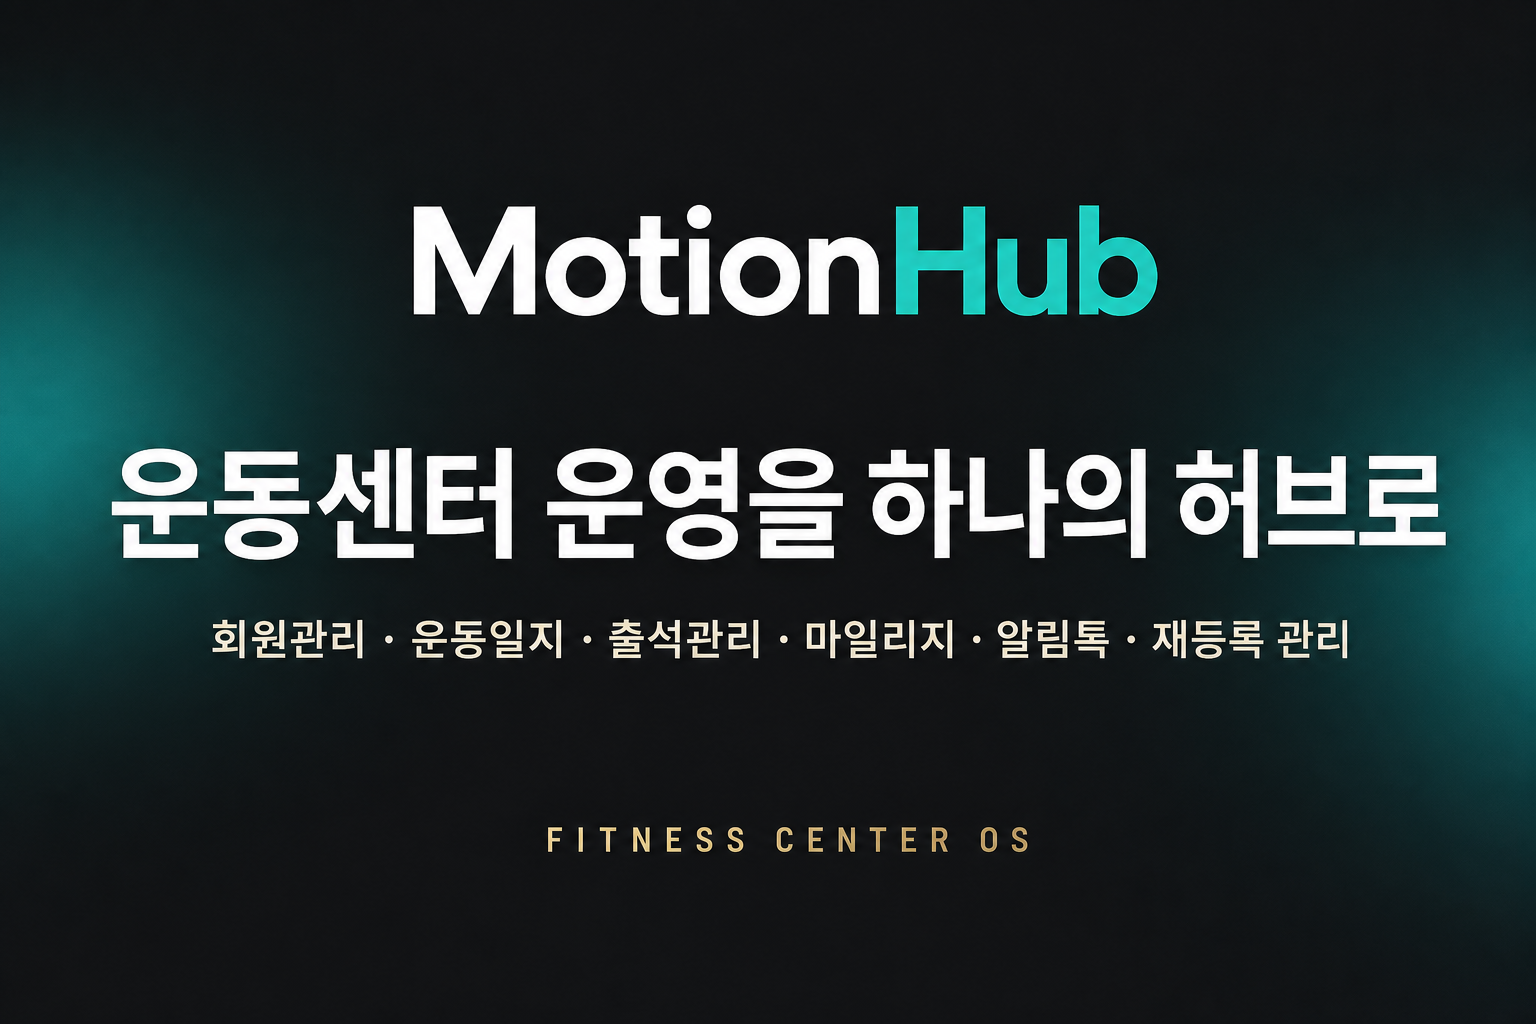
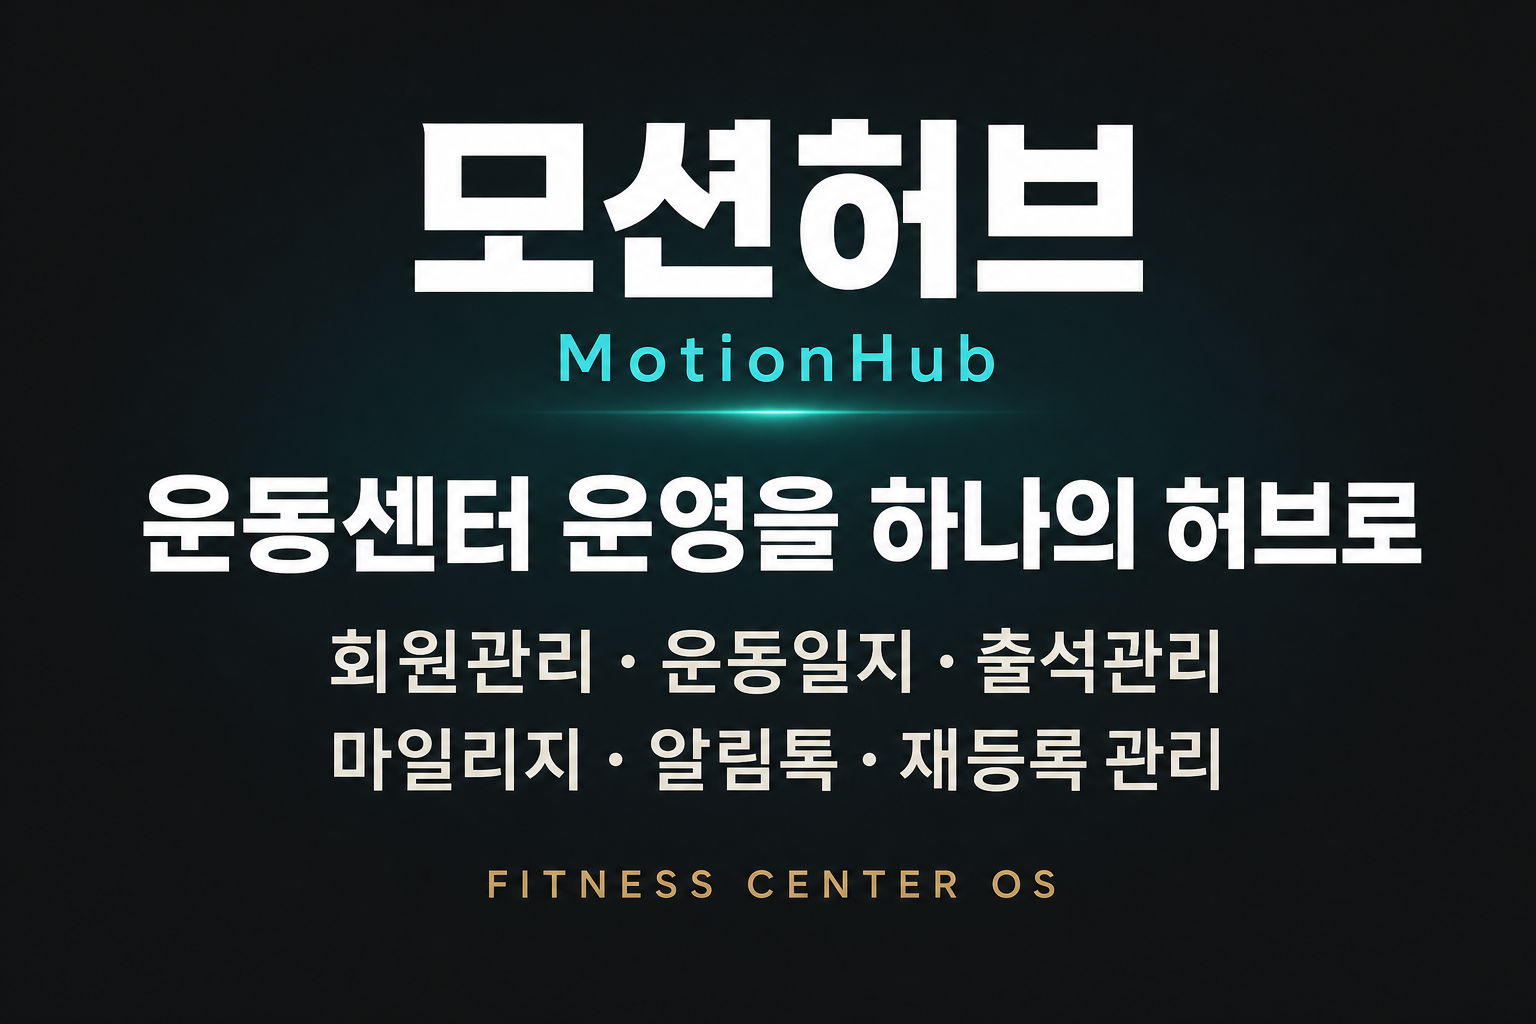
Fix motionhub.kr root to serve motionhub.html for OG crawlers.
Add Edge middleware so apex requests bypass index.html, unify Korean brand as 모션허브 in SEO meta, and regenerate the Korean OG image.

Changed region(s): [[0.0, 0.0938, 1.0, 0.8438], [0.3125, 0.8125, 0.6875, 0.875]]

diff --git a/motionhub.html b/motionhub.html
@@ -3,26 +3,26 @@
   <head>
     <meta charset="UTF-8" />
     <meta name="viewport" content="width=device-width, initial-scale=1.0" />
-    <title>MotionHub | 운동센터 운영 플랫폼</title>
+    <title>모션허브 | 운동센터 운영 플랫폼</title>
     <meta
       name="description"
       content="회원관리, 운동일지, 출석관리, 마일리지, 알림톡, 재등록 관리를 하나로 연결하는 운동센터 운영 플랫폼"
     />
     <meta
       name="keywords"
-      content="MotionHub, 모션허브, PT샵 관리, 필라테스 센터, 운동센터 운영, 회원관리, 재등록 관리, 출석관리, 운동일지, 마일리지, 알림톡"
+      content="모션허브, MotionHub, PT샵 관리, 필라테스 센터, 운동센터 운영, 회원관리, 재등록 관리, 출석관리, 운동일지, 마일리지, 알림톡"
     />
-    <meta name="author" content="MotionHub" />
-    <meta name="application-name" content="MotionHub" />
+    <meta name="author" content="모션허브" />
+    <meta name="application-name" content="모션허브" />
     <meta name="robots" content="index, follow, max-image-preview:large" />
     <meta name="googlebot" content="index, follow" />
     <meta name="theme-color" content="#1c1c1c" />
     <link rel="canonical" href="https://motionhub.kr/" />
 
     <!-- Open Graph (카카오·페이스북·네이버) -->
-    <meta property="og:site_name" content="MotionHub" />
+    <meta property="og:site_name" content="모션허브" />
     <meta property="og:locale" content="ko_KR" />
-    <meta property="og:title" content="MotionHub | 운동센터 운영 플랫폼" />
+    <meta property="og:title" content="모션허브 | 운동센터 운영 플랫폼" />
     <meta
       property="og:description"
       content="회원관리, 운동일지, 출석관리, 마일리지, 알림톡, 재등록 관리를 하나로 연결하는 운동센터 운영 플랫폼"
@@ -34,11 +34,11 @@
     <meta property="og:image:type" content="image/png" />
     <meta property="og:image:width" content="1200" />
     <meta property="og:image:height" content="630" />
-    <meta property="og:image:alt" content="MotionHub — 운동센터 운영을 하나의 허브로" />
+    <meta property="og:image:alt" content="모션허브 — 운동센터 운영을 하나의 허브로" />
 
     <!-- Twitter Card -->
     <meta name="twitter:card" content="summary_large_image" />
-    <meta name="twitter:title" content="MotionHub | 운동센터 운영 플랫폼" />
+    <meta name="twitter:title" content="모션허브 | 운동센터 운영 플랫폼" />
     <meta
       name="twitter:description"
       content="회원관리, 운동일지, 출석관리, 마일리지, 알림톡, 재등록 관리를 하나로 연결하는 운동센터 운영 플랫폼"
@@ -54,7 +54,8 @@
             "@type": "WebSite",
             "@id": "https://motionhub.kr/#website",
             "url": "https://motionhub.kr",
-            "name": "MotionHub",
+            "name": "모션허브",
+            "alternateName": "MotionHub",
             "description": "회원관리, 운동일지, 출석관리, 마일리지, 알림톡, 재등록 관리를 하나로 연결하는 운동센터 운영 플랫폼",
             "inLanguage": "ko-KR",
             "publisher": { "@id": "https://motionhub.kr/#organization" }
@@ -62,7 +63,8 @@
           {
             "@type": "Organization",
             "@id": "https://motionhub.kr/#organization",
-            "name": "MotionHub",
+            "name": "모션허브",
+            "alternateName": "MotionHub",
             "url": "https://motionhub.kr",
             "logo": {
               "@type": "ImageObject",
@@ -73,7 +75,8 @@
           },
           {
             "@type": "SoftwareApplication",
-            "name": "MotionHub",
+            "name": "모션허브",
+            "alternateName": "MotionHub",
             "applicationCategory": "BusinessApplication",
             "operatingSystem": "Web",
             "url": "https://motionhub.kr",

diff --git a/src/pages/MotionHubLandingPage.tsx b/src/pages/MotionHubLandingPage.tsx
@@ -113,11 +113,8 @@ function HeroSection() {
       />
       <div className="relative mx-auto max-w-6xl px-4 sm:px-6">
         <div className="max-w-3xl">
-          <p className="text-sm font-semibold tracking-[0.2em] text-teal-300 uppercase">
-            모션허브
-          </p>
-          <h1 className="mt-4 text-4xl font-bold tracking-tight text-cream sm:text-5xl lg:text-6xl">
-            Motion<span className="text-teal-300">Hub</span>
+          <h1 className="mt-0">
+            <MotionHubLogo tone="light" size="hero" />
           </h1>
           <p className="mt-6 text-xl font-semibold leading-snug text-cream sm:text-2xl">
             회원이 운동을 지속하게 만드는
@@ -161,7 +158,7 @@ function TrustSection() {
             현재 베타 운영 중
           </p>
           <p className="mt-5 text-lg font-semibold leading-relaxed text-charcoal sm:text-xl">
-            MotionHub는 실제 PT 센터에서 운영 중인 플랫폼입니다.
+            모션허브는 실제 PT 센터에서 운영 중인 플랫폼입니다.
           </p>
           <ul className="mt-6 flex flex-wrap gap-2">
             {MOTIONHUB_TRUST_FEATURES.map((feature) => (
@@ -217,7 +214,7 @@ function ProblemsSection() {
             여러 도구로 나누어 운영합니다.
           </p>
           <p className="font-medium text-charcoal">
-            MotionHub는 이 과정을 하나의 플랫폼으로 통합합니다.
+            모션허브는 이 과정을 하나의 플랫폼으로 통합합니다.
           </p>
         </div>
       </div>
@@ -234,7 +231,7 @@ function FeaturesSection() {
             Solution
           </p>
           <h2 className="mt-3 text-3xl font-bold tracking-tight text-charcoal sm:text-4xl">
-            MotionHub 기능 소개
+            모션허브 기능 소개
           </h2>
           <p className="mt-4 text-base leading-relaxed text-charcoal/60">
             회원 유지, 재등록 관리, 운영 효율을 돕는 기능을
@@ -275,7 +272,7 @@ function CaseStudySection() {
             MOVEL Performance Training
           </h3>
           <p className="mt-5 max-w-2xl text-base leading-relaxed text-cream/75">
-            MotionHub는 현재 MOVEL Performance Training에서 실제 운영 중입니다.
+            모션허브는 현재 MOVEL Performance Training에서 실제 운영 중입니다.
           </p>
           <p className="mt-4 max-w-2xl text-base leading-relaxed text-cream/65">
             회원관리부터 운동일지, 출석, 알림톡, 마일리지까지
@@ -367,7 +364,7 @@ function BetaSection() {
                 </li>
                 <li className="flex gap-2">
                   <span className="font-bold text-teal-700">✓</span>
-                  MotionHub 초기 파트너 혜택 제공
+                  모션허브 초기 파트너 혜택 제공
                 </li>
               </ul>
             </div>
@@ -538,10 +535,10 @@ function LandingFooter() {
         <MotionHubLogo tone="light" showTagline />
         <p className="mt-4 text-sm text-cream/55">운동센터 운영 플랫폼</p>
         <p className="mt-2 text-xs font-medium tracking-wide text-cream/40">
-          Powered by MotionHub
+          Powered by 모션허브
         </p>
         <p className="mt-8 text-xs text-cream/35">
-          © {new Date().getFullYear()} MotionHub. All rights reserved.
+          © {new Date().getFullYear()} 모션허브 (MotionHub). All rights reserved.
         </p>
       </div>
     </footer>

diff --git a/src/components/brand/MotionHubLogo.tsx b/src/components/brand/MotionHubLogo.tsx
@@ -2,23 +2,42 @@ type Props = {
   className?: string
   tone?: 'light' | 'dark'
   showTagline?: boolean
+  /** nav: 헤더·푸터, hero: 메인 타이틀 */
+  size?: 'nav' | 'hero'
+  /** false면 영문 (MotionHub) 병기 숨김 */
+  showEnglish?: boolean
 }
 
 export function MotionHubLogo({
   className = '',
   tone = 'light',
   showTagline = false,
+  size = 'nav',
+  showEnglish = true,
 }: Props) {
   const isLight = tone === 'light'
   const wordmark = isLight ? 'text-cream' : 'text-charcoal'
-  const hub = isLight ? 'text-teal-300' : 'text-teal-600'
+  const sub = isLight ? 'text-cream/55' : 'text-charcoal/50'
   const tagline = isLight ? 'text-cream/50' : 'text-charcoal/45'
+  const isHero = size === 'hero'
 
   return (
     <div className={`inline-flex flex-col items-start ${className}`}>
-      <span className={`text-xl font-bold tracking-tight sm:text-2xl ${wordmark}`}>
-        Motion<span className={hub}>Hub</span>
+      <span
+        className={`font-bold tracking-tight ${wordmark} ${
+          isHero ? 'text-4xl sm:text-5xl lg:text-6xl' : 'text-xl sm:text-2xl'
+        }`}
+      >
+        모션허브
+        {showEnglish && !isHero && (
+          <span className={`ml-1.5 text-sm font-semibold ${sub}`}>(MotionHub)</span>
+        )}
       </span>
+      {isHero && showEnglish && (
+        <span className={`mt-2 text-base font-medium sm:text-lg ${sub}`}>
+          MotionHub
+        </span>
+      )}
       {showTagline && (
         <span
           className={`mt-0.5 text-[10px] font-semibold tracking-[0.2em] uppercase ${tagline}`}

diff --git a/src/constants/motionhubSeo.ts b/src/constants/motionhubSeo.ts
@@ -1,16 +1,27 @@
-/** MotionHub 랜딩 SEO · Open Graph (정적 HTML·클라이언트 공통) */
+/** MotionHub 랜딩 SEO · Open Graph · 브랜드 노출명 (정적 HTML·클라이언트 공통) */
 
 export const MOTIONHUB_SITE_URL = 'https://motionhub.kr'
 
+/** 한국 시장 대외 노출명 */
+export const MOTIONHUB_BRAND_KO = '모션허브'
+
+/** 영문 브랜드명 (기술·국제 표기) */
+export const MOTIONHUB_BRAND_EN = 'MotionHub'
+
+/** UI 병기 표기 */
+export const MOTIONHUB_BRAND_DISPLAY = `${MOTIONHUB_BRAND_KO} (${MOTIONHUB_BRAND_EN})`
+
 export const MOTIONHUB_SEO = {
-  title: 'MotionHub | 운동센터 운영 플랫폼',
+  title: `${MOTIONHUB_BRAND_KO} | 운동센터 운영 플랫폼`,
   description:
     '회원관리, 운동일지, 출석관리, 마일리지, 알림톡, 재등록 관리를 하나로 연결하는 운동센터 운영 플랫폼',
-  applicationName: 'MotionHub',
+  siteName: MOTIONHUB_BRAND_KO,
+  applicationName: MOTIONHUB_BRAND_KO,
   ogType: 'website',
   ogImagePath: '/motionhub-og.png',
   ogImageWidth: 1200,
   ogImageHeight: 630,
+  ogImageAlt: `${MOTIONHUB_BRAND_KO} — 운동센터 운영을 하나의 허브로`,
   twitterCard: 'summary_large_image',
   locale: 'ko_KR',
 } as const

diff --git a/middleware.ts b/middleware.ts
@@ -1,0 +1,28 @@
+import { NextResponse } from 'next/server'
+import type { NextRequest } from 'next/server'
+
+/**
+ * motionhub.kr 루트(/) 요청 시 Vercel filesystem이 index.html을 먼저 내려주는 문제를 방지.
+ * 크롤러·카카오 OG는 / 에서 motionhub.html 정적 메타가 필요합니다.
+ */
+export function middleware(request: NextRequest) {
+  const host =
+    request.headers.get('x-forwarded-host') ??
+    request.headers.get('host') ??
+    ''
+  const hostname = host.split(',')[0].split(':')[0].trim().toLowerCase()
+
+  if (hostname === 'motionhub.kr' || hostname === 'www.motionhub.kr') {
+    const url = request.nextUrl.clone()
+    url.pathname = '/motionhub.html'
+    return NextResponse.rewrite(url)
+  }
+
+  return NextResponse.next()
+}
+
+export const config = {
+  matcher: [
+    '/((?!assets/|logo/|motionhub-og\\.png|favicon\\.ico|.*\\.[\\w]+$).*)',
+  ],
+}

diff --git a/src/hooks/useMotionHubSeo.ts b/src/hooks/useMotionHubSeo.ts
@@ -32,7 +32,7 @@ export function useMotionHubSeo() {
 
     document.title = MOTIONHUB_SEO.title
     upsertMeta('meta[name="description"]', { name: 'description' }, MOTIONHUB_SEO.description)
-    upsertMeta('meta[property="og:site_name"]', { property: 'og:site_name' }, 'MotionHub')
+    upsertMeta('meta[property="og:site_name"]', { property: 'og:site_name' }, MOTIONHUB_SEO.siteName)
     upsertMeta('meta[property="og:locale"]', { property: 'og:locale' }, MOTIONHUB_SEO.locale)
     upsertMeta('meta[property="og:title"]', { property: 'og:title' }, MOTIONHUB_SEO.title)
     upsertMeta(

diff --git a/docs/motionhub-seo-verification.md b/docs/motionhub-seo-verification.md
@@ -42,10 +42,10 @@ motionhub.kr 요청
    ```
 
    기대 결과:
-   - `og:title` → `MotionHub | 운동센터 운영 플랫폼`
+   - `og:title` → `모션허브 | 운동센터 운영 플랫폼`
    - `og:description` → 회원관리, 운동일지…
    - `og:image` → `https://motionhub.kr/motionhub-og.png`
-   - `og:site_name` → `MotionHub`
+   - `og:site_name` → `모션허브`
    - **모벨 퍼포먼스 문구 없음**
 
 4. **OG 이미지 직접**  
